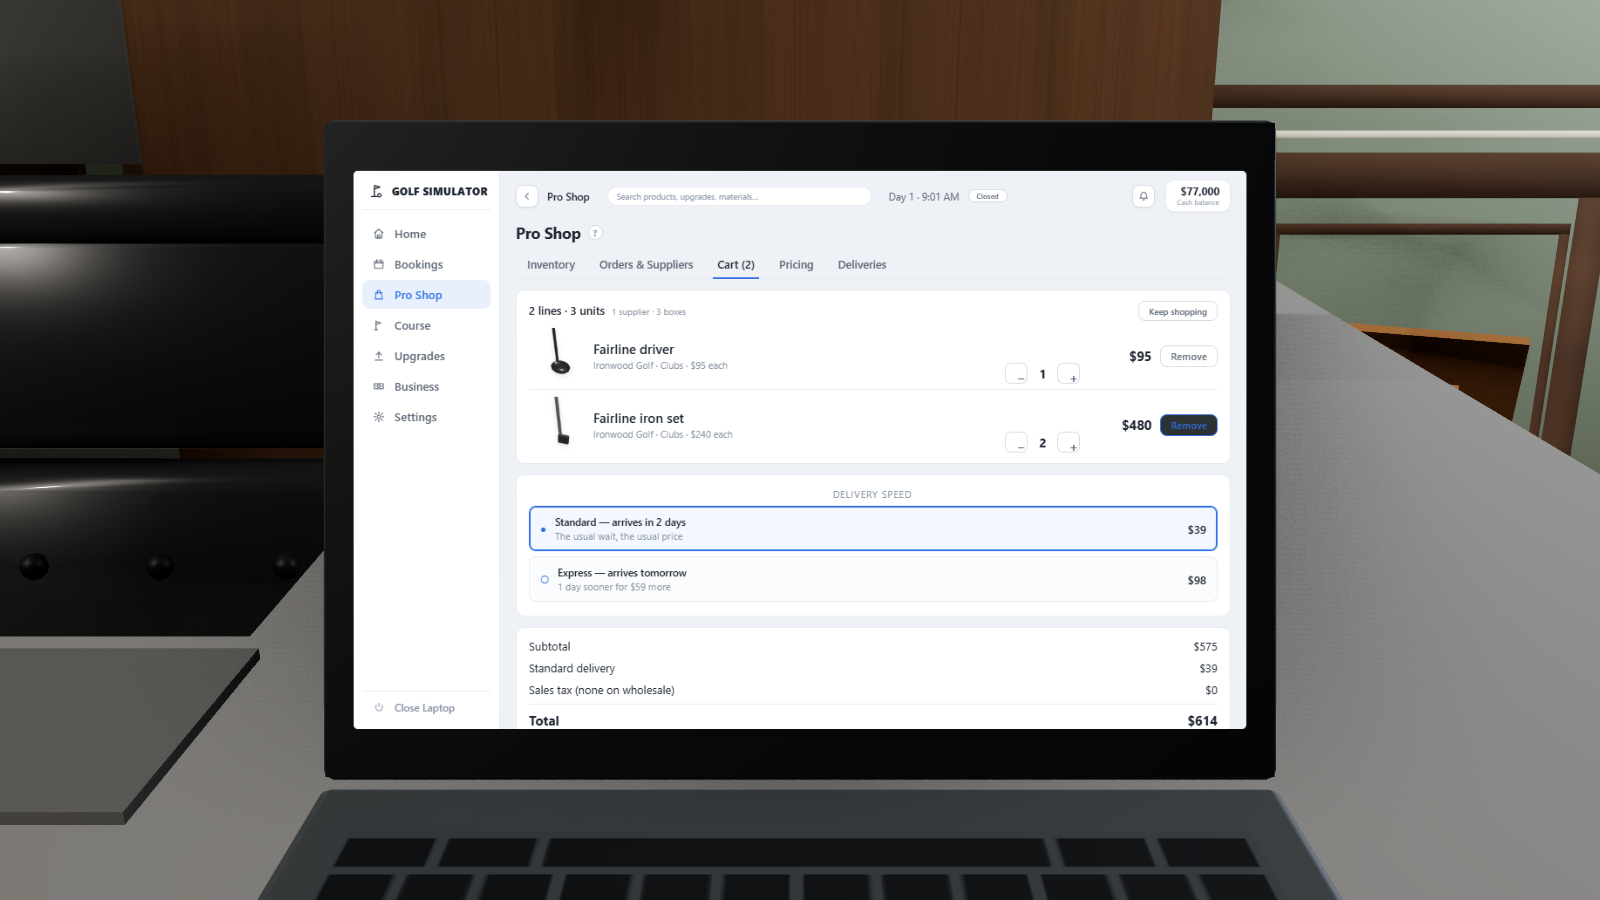
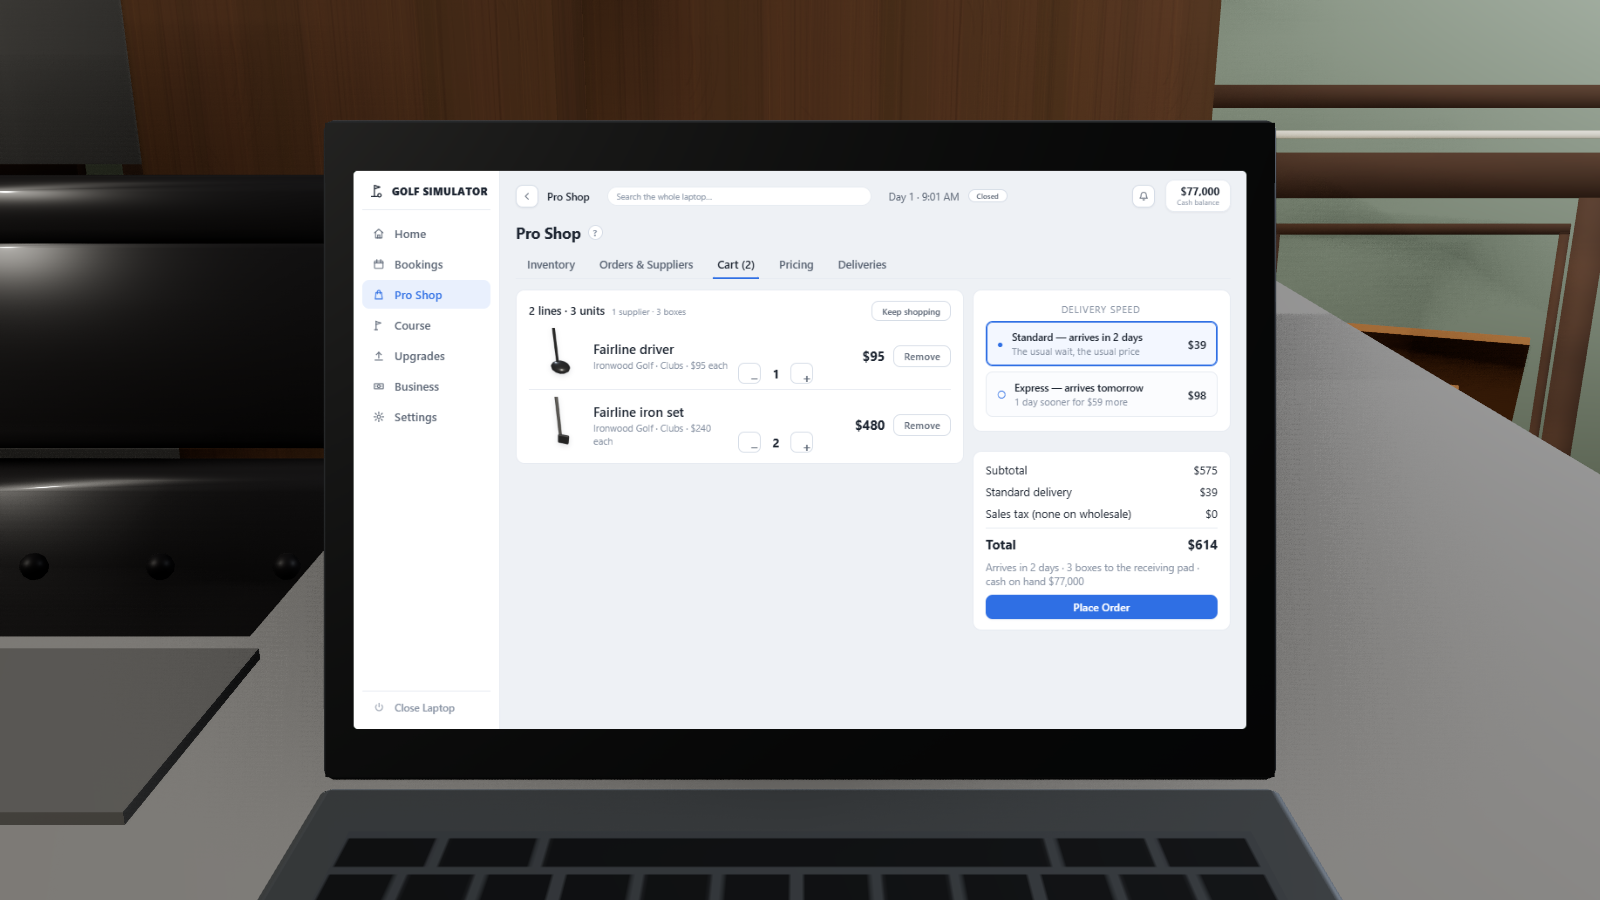
Place Order never leaves the lid: the cart money moves into a sticky rail
Reported: "Place Order sits below the lid's fold with a full cart. Fix it — a
confirm button you have to scroll to find is the same defect as the shipping
options sitting under the total."

The cart screen was three stacked cards, so every line item pushed the delivery
chooser, the totals and the button further down the 640 px lid; four lines
buried them. It is now two columns: the line items are the left column and
scroll with the page, and the chooser + totals + Place Order live in a 296 px
right-hand rail that is position:sticky against .lt-content — the laptop's one
scroller — so the button stays on screen however long the basket gets.

MEASURED with a full cart (laptop-cart-flow.json, all 16 findings true,
laptop-cart-4-full-fold.png): eight lines in the basket, scroll reset, and the
button's box sits at bottom 620 inside a scroller ending at 729 — above the
fold before any scroll. The page genuinely overflows (the check had something
to prove), and after scrolling to the very bottom the button is STILL in view,
which is the sticky rail working rather than a short page passing by accident.

The reading order the split preserved: chooser above the totals it changes,
items -> delivery -> money -> button left to right, and the too-expensive
errBox now sits under the items where the excess lines are, not under the
button. tests/laptop-cart-flow.test.js pins the rail's contents — chooser,
totals and button inside it, line items NOT — and that .lt-cartrail really
[…]

diff --git a/src/ui/laptop.js b/src/ui/laptop.js
@@ -1605,9 +1605,19 @@ export function makeLaptop(app, opts) {
 
     const taxPercent = `${(taxRate * 100).toFixed(2).replace(/\.?0+$/, '')}%`;
 
+    // TWO COLUMNS: WHAT YOU ARE BUYING, AND WHAT IT COSTS.
+    //
+    // Reported 2026-07-29: "Place Order sits below the lid's fold with a full cart. Fix it —
+    // a confirm button you have to scroll to find is the same defect as the shipping options
+    // sitting under the total." Stacked cards meant every line item pushed the money further
+    // down; on a 640 px lid, four lines buried it. Now the line items are the left column and
+    // the delivery chooser, totals and Place Order live in a right-hand rail that sticks to
+    // the top of the scroll — however long the cart, the button stays on screen.
     return [
-      el('div', { class: 'lt-cart' },
-        el('div', { class: 'lt-cartline' },
+      el('div', { class: 'lt-cartsplit' },
+        el('div', { class: 'lt-cartmaincol' },
+          el('div', { class: 'lt-cart' },
+            el('div', { class: 'lt-cartline' },
           el('span', { style: 'font-weight:600', text: `${cart.size} line${cart.size === 1 ? '' : 's'} · ${unitsInCart} unit${unitsInCart === 1 ? '' : 's'}` }),
           meta(`${supplierCount} supplier${supplierCount === 1 ? '' : 's'} · ${plural(boxCount, 'box')}`),
           el('span', { class: 'lt-headspace' }),
@@ -1616,14 +1626,16 @@ export function makeLaptop(app, opts) {
             text: 'Keep shopping',
             onclick: () => { ss.tab = 'order'; click(); render(); },
           })),
-        el('div', { class: 'lt-cartitems' }, ...lineRows)),
+            el('div', { class: 'lt-cartitems' }, ...lineRows)),
+          !affordable ? errBox(`That cart is ${formatMoney(total - cashOf())} more than you have.`) : null),
 
-      // Stacked rows rather than side-by-side chips, so both options are read top to bottom
-      // with their arrival, their freight and -- on the row -- what choosing it costs or saves
-      // against the other. The player never subtracts.
-      el('div', { class: 'lt-cart' },
-        el('div', { class: 'lt-shipping' },
-          el('div', { class: 'lt-shiplabel', text: 'Delivery speed' }),
+        el('div', { class: 'lt-cartrail' },
+          // Stacked rows rather than side-by-side chips, so both options are read top to bottom
+          // with their arrival, their freight and -- on the row -- what choosing it costs or
+          // saves against the other. The player never subtracts.
+          el('div', { class: 'lt-cart' },
+            el('div', { class: 'lt-shipping' },
+              el('div', { class: 'lt-shiplabel', text: 'Delivery speed' }),
           ...[
             { id: 'standard', label: 'Standard', q: quoteStandard },
             { id: 'express', label: 'Express', q: quoteExpress },
@@ -1647,25 +1659,24 @@ export function makeLaptop(app, opts) {
               el('span', { class: 'lt-shipname', text: `${label} — arrives ${arrivalWord(q.leadDays)}` }),
               el('span', { class: 'lt-shiptrade', text: trade })),
             el('span', { class: 'lt-shipfee', text: formatMoney(q.freight) }));
-          }))),
+              }))),
 
-      el('div', { class: 'lt-cart' },
-        money('Subtotal', goods),
-        money(`${shipMode === 'express' ? 'Express' : 'Standard'} delivery`, freight),
-        // The tax line is ALWAYS here. It reads BALANCE.wholesaleSalesTaxRate, which is 0
-        // until someone decides to charge it -- a review screen that shows tax only when tax
-        // happens to be non-zero teaches the player it does not exist.
-        el('div', { class: 'lt-cartline' },
-          el('span', { text: taxRate > 0 ? `Sales tax (${taxPercent})` : 'Sales tax (none on wholesale)' }),
-          el('span', { class: 'lt-headspace' }),
-          el('span', { text: formatMoney(tax) })),
-        el('div', { class: 'lt-cartline lt-carttotal' },
-          el('span', { style: 'font-weight:700', text: 'Total' }),
-          el('span', { class: 'lt-headspace' }),
-          el('span', { class: `lt-cash ${affordable ? '' : 'bad'}`, text: formatMoney(total) })),
-        meta(`Arrives ${arrivalWord(quote.leadDays)} · ${plural(boxCount, 'box')} to the receiving pad · cash on hand ${formatMoney(cashOf())}`),
-        primaryBtn('Place Order', placeOrderFlow, !affordable)),
-      !affordable ? errBox(`That cart is ${formatMoney(total - cashOf())} more than you have.`) : null,
+          el('div', { class: 'lt-cart' },
+            money('Subtotal', goods),
+            money(`${shipMode === 'express' ? 'Express' : 'Standard'} delivery`, freight),
+            // The tax line is ALWAYS here. It reads BALANCE.wholesaleSalesTaxRate, which is 0
+            // until someone decides to charge it -- a review screen that shows tax only when
+            // tax happens to be non-zero teaches the player it does not exist.
+            el('div', { class: 'lt-cartline' },
+              el('span', { text: taxRate > 0 ? `Sales tax (${taxPercent})` : 'Sales tax (none on wholesale)' }),
+              el('span', { class: 'lt-headspace' }),
+              el('span', { text: formatMoney(tax) })),
+            el('div', { class: 'lt-cartline lt-carttotal' },
+              el('span', { style: 'font-weight:700', text: 'Total' }),
+              el('span', { class: 'lt-headspace' }),
+              el('span', { class: `lt-cash ${affordable ? '' : 'bad'}`, text: formatMoney(total) })),
+            meta(`Arrives ${arrivalWord(quote.leadDays)} · ${plural(boxCount, 'box')} to the receiving pad · cash on hand ${formatMoney(cashOf())}`),
+            primaryBtn('Place Order', placeOrderFlow, !affordable)))),
     ];
   }
 

diff --git a/tools/qa/laptop-cart-flow.js b/tools/qa/laptop-cart-flow.js
@@ -167,6 +167,45 @@ async (page) => {
     await page.screenshot({ path: path.join(outDir, 'laptop-cart-3-express.png') });
   }
 
+  // THE FOLD, MEASURED WITH A FULL CART.
+  //
+  // Reported 2026-07-29: "Place Order sits below the lid's fold with a full cart. Fix it — a
+  // confirm button you have to scroll to find is the same defect as the shipping options
+  // sitting under the total." So: load the basket up to eight lines, reset the scroll, and
+  // compare the button's box against the scroller's box. Then scroll to the bottom and check
+  // it is STILL in view — that is the sticky rail doing its job, not a short page.
+  // The express step left us ON the cart screen; the + buttons live on browse.
+  await clickText('Keep shopping');
+  const addAll = page.locator('.lt-product .lt-qbtn', { hasText: '+' });
+  const addable = await addAll.count();
+  for (let i = 2; i < Math.min(addable, 8); i += 1) {
+    await addAll.nth(i).click({ timeout: 8000 });
+    await page.waitForTimeout(140);
+  }
+  await clickText('Review cart');
+  const foldCheck = await page.evaluate(() => {
+    const content = document.querySelector('.lt-content');
+    content.scrollTop = 0;
+    const button = [...document.querySelectorAll('.lt-primary')]
+      .find((b) => b.textContent === 'Place Order');
+    const box = button?.getBoundingClientRect?.() || null;
+    const view = content?.getBoundingClientRect?.() || null;
+    const atTop = {
+      lines: document.querySelectorAll('.lt-cartitem').length,
+      buttonBottom: box ? Math.round(box.bottom) : null,
+      viewBottom: view ? Math.round(view.bottom) : null,
+      inViewAtTop: !!(box && view && box.top >= view.top - 2 && box.bottom <= view.bottom + 2),
+      contentScrollable: content.scrollHeight > content.clientHeight + 4,
+    };
+    content.scrollTop = content.scrollHeight;
+    const box2 = button?.getBoundingClientRect?.() || null;
+    return {
+      ...atTop,
+      inViewAtBottom: !!(box2 && view && box2.top >= view.top - 2 && box2.bottom <= view.bottom + 2),
+    };
+  });
+  await page.screenshot({ path: path.join(outDir, 'laptop-cart-4-full-fold.png') });
+
   const findings = {
     // The cart screen HAS the five things the brief lists.
     cartListsLineItems: cartScreen.lineItemRows > 0,
@@ -186,6 +225,12 @@ async (page) => {
     totalRespondsToDelivery: !!afterExpress && afterExpress.totalLine !== before,
     totalBefore: before,
     totalAfterExpress: afterExpress?.totalLine ?? null,
+    // Full cart: the button is inside the lid before any scroll, the page has real overflow
+    // (so the check is not passing on a short page), and the rail sticks when scrolled.
+    fullCartHasManyLines: foldCheck.lines >= 6,
+    placeOrderAboveTheFold: foldCheck.inViewAtTop,
+    theCheckHadSomethingToProve: foldCheck.contentScrollable,
+    placeOrderStaysWhileScrolling: foldCheck.inViewAtBottom,
   };
 
   const result = {
@@ -193,8 +238,9 @@ async (page) => {
     browse,
     cartScreen,
     afterExpress,
+    foldCheck,
     findings,
-    shots: ['laptop-cart-1-browse.png', 'laptop-cart-2-cart.png', 'laptop-cart-3-express.png'],
+    shots: ['laptop-cart-1-browse.png', 'laptop-cart-2-cart.png', 'laptop-cart-3-express.png', 'laptop-cart-4-full-fold.png'],
     errs: errs.slice(0, 12),
     ok: Object.entries(findings)
       .filter(([key]) => !key.startsWith('total') || key === 'totalRespondsToDelivery')

diff --git a/tests/laptop-cart-flow.test.js b/tests/laptop-cart-flow.test.js
@@ -53,6 +53,26 @@ test('the cart screen carries all five things the brief lists', () => {
   );
 });
 
+test('the money lives in a sticky rail so Place Order never leaves the lid', () => {
+  // Reported 2026-07-29: "Place Order sits below the lid's fold with a full cart. Fix it — a
+  // confirm button you have to scroll to find is the same defect as the shipping options
+  // sitting under the total." The structural half is held here (items column + rail, with the
+  // chooser, totals and button all inside the rail); the geometric half — button box inside
+  // the 640 px scroller with eight lines in the basket, before AND after scrolling — is
+  // measured live by tools/qa/laptop-cart-flow.js.
+  const cartTab = slice('function shopCartTab(st, ss) {', 'function shopPricesTab(st) {');
+  assert.match(cartTab, /lt-cartsplit/);
+  assert.match(cartTab, /lt-cartmaincol/);
+  const rail = cartTab.slice(cartTab.indexOf("class: 'lt-cartrail'"));
+  assert.ok(rail.includes('lt-shipping'), 'the delivery chooser rides the rail');
+  assert.ok(rail.includes("money('Subtotal'"), 'so do the totals');
+  assert.ok(rail.includes("primaryBtn('Place Order'"), 'and the button that spends the money');
+  assert.ok(!rail.includes('lt-cartitem'), 'the line items do NOT — they are the column that scrolls');
+  // The stickiness itself is CSS, and a class with no position:sticky behind it is decor.
+  assert.match(styles, /\.lt-cartrail \{[^}]*position: sticky/s);
+  assert.match(styles, /\.lt-cartsplit \{[^}]*grid-template-columns/s);
+});
+
 test('the browse screen no longer carries the money', () => {
   const orderTab = slice('function shopOrderTab(st, ss) {', 'function shopCartTab(st, ss) {');
   for (const gone of ['lt-shipping', 'lt-carttotal', "primaryBtn('Place Order'", 'Sales tax', 'submitPurchaseOrders']) {

diff --git a/src/styles.css b/src/styles.css
@@ -2511,6 +2511,20 @@ body.register-mode .view-toggle { display: none !important; }
   font-weight: 700; color: var(--lt-ink); font-variant-numeric: tabular-nums;
   min-width: 72px; text-align: right;
 }
+/* THE CART IS TWO COLUMNS so the money never leaves the lid.
+   Reported 2026-07-29: with a full cart the stacked layout pushed Place Order below the
+   640 px fold. The items are the left column and scroll with the page; the rail (delivery
+   chooser, totals, the button) is sticky against .lt-content, the laptop's one scroller —
+   however many lines are in the basket, the button that spends the money stays on screen. */
+.lt-cartsplit {
+  display: grid; grid-template-columns: minmax(0, 1fr) 296px;
+  gap: 10px; align-items: start;
+}
+.lt-cartmaincol { display: flex; flex-direction: column; gap: 10px; min-width: 0; }
+.lt-cartrail {
+  display: flex; flex-direction: column; gap: 10px;
+  position: sticky; top: 0;
+}
 .lt-cartline { display: flex; align-items: baseline; gap: 8px; font-size: 0.86em; }
 .lt-cartsub, .lt-cartfreight { color: var(--lt-dim); }
 .lt-carttotal { border-top: 1px solid var(--lt-edge); padding-top: 8px; font-size: 1.0em; }
